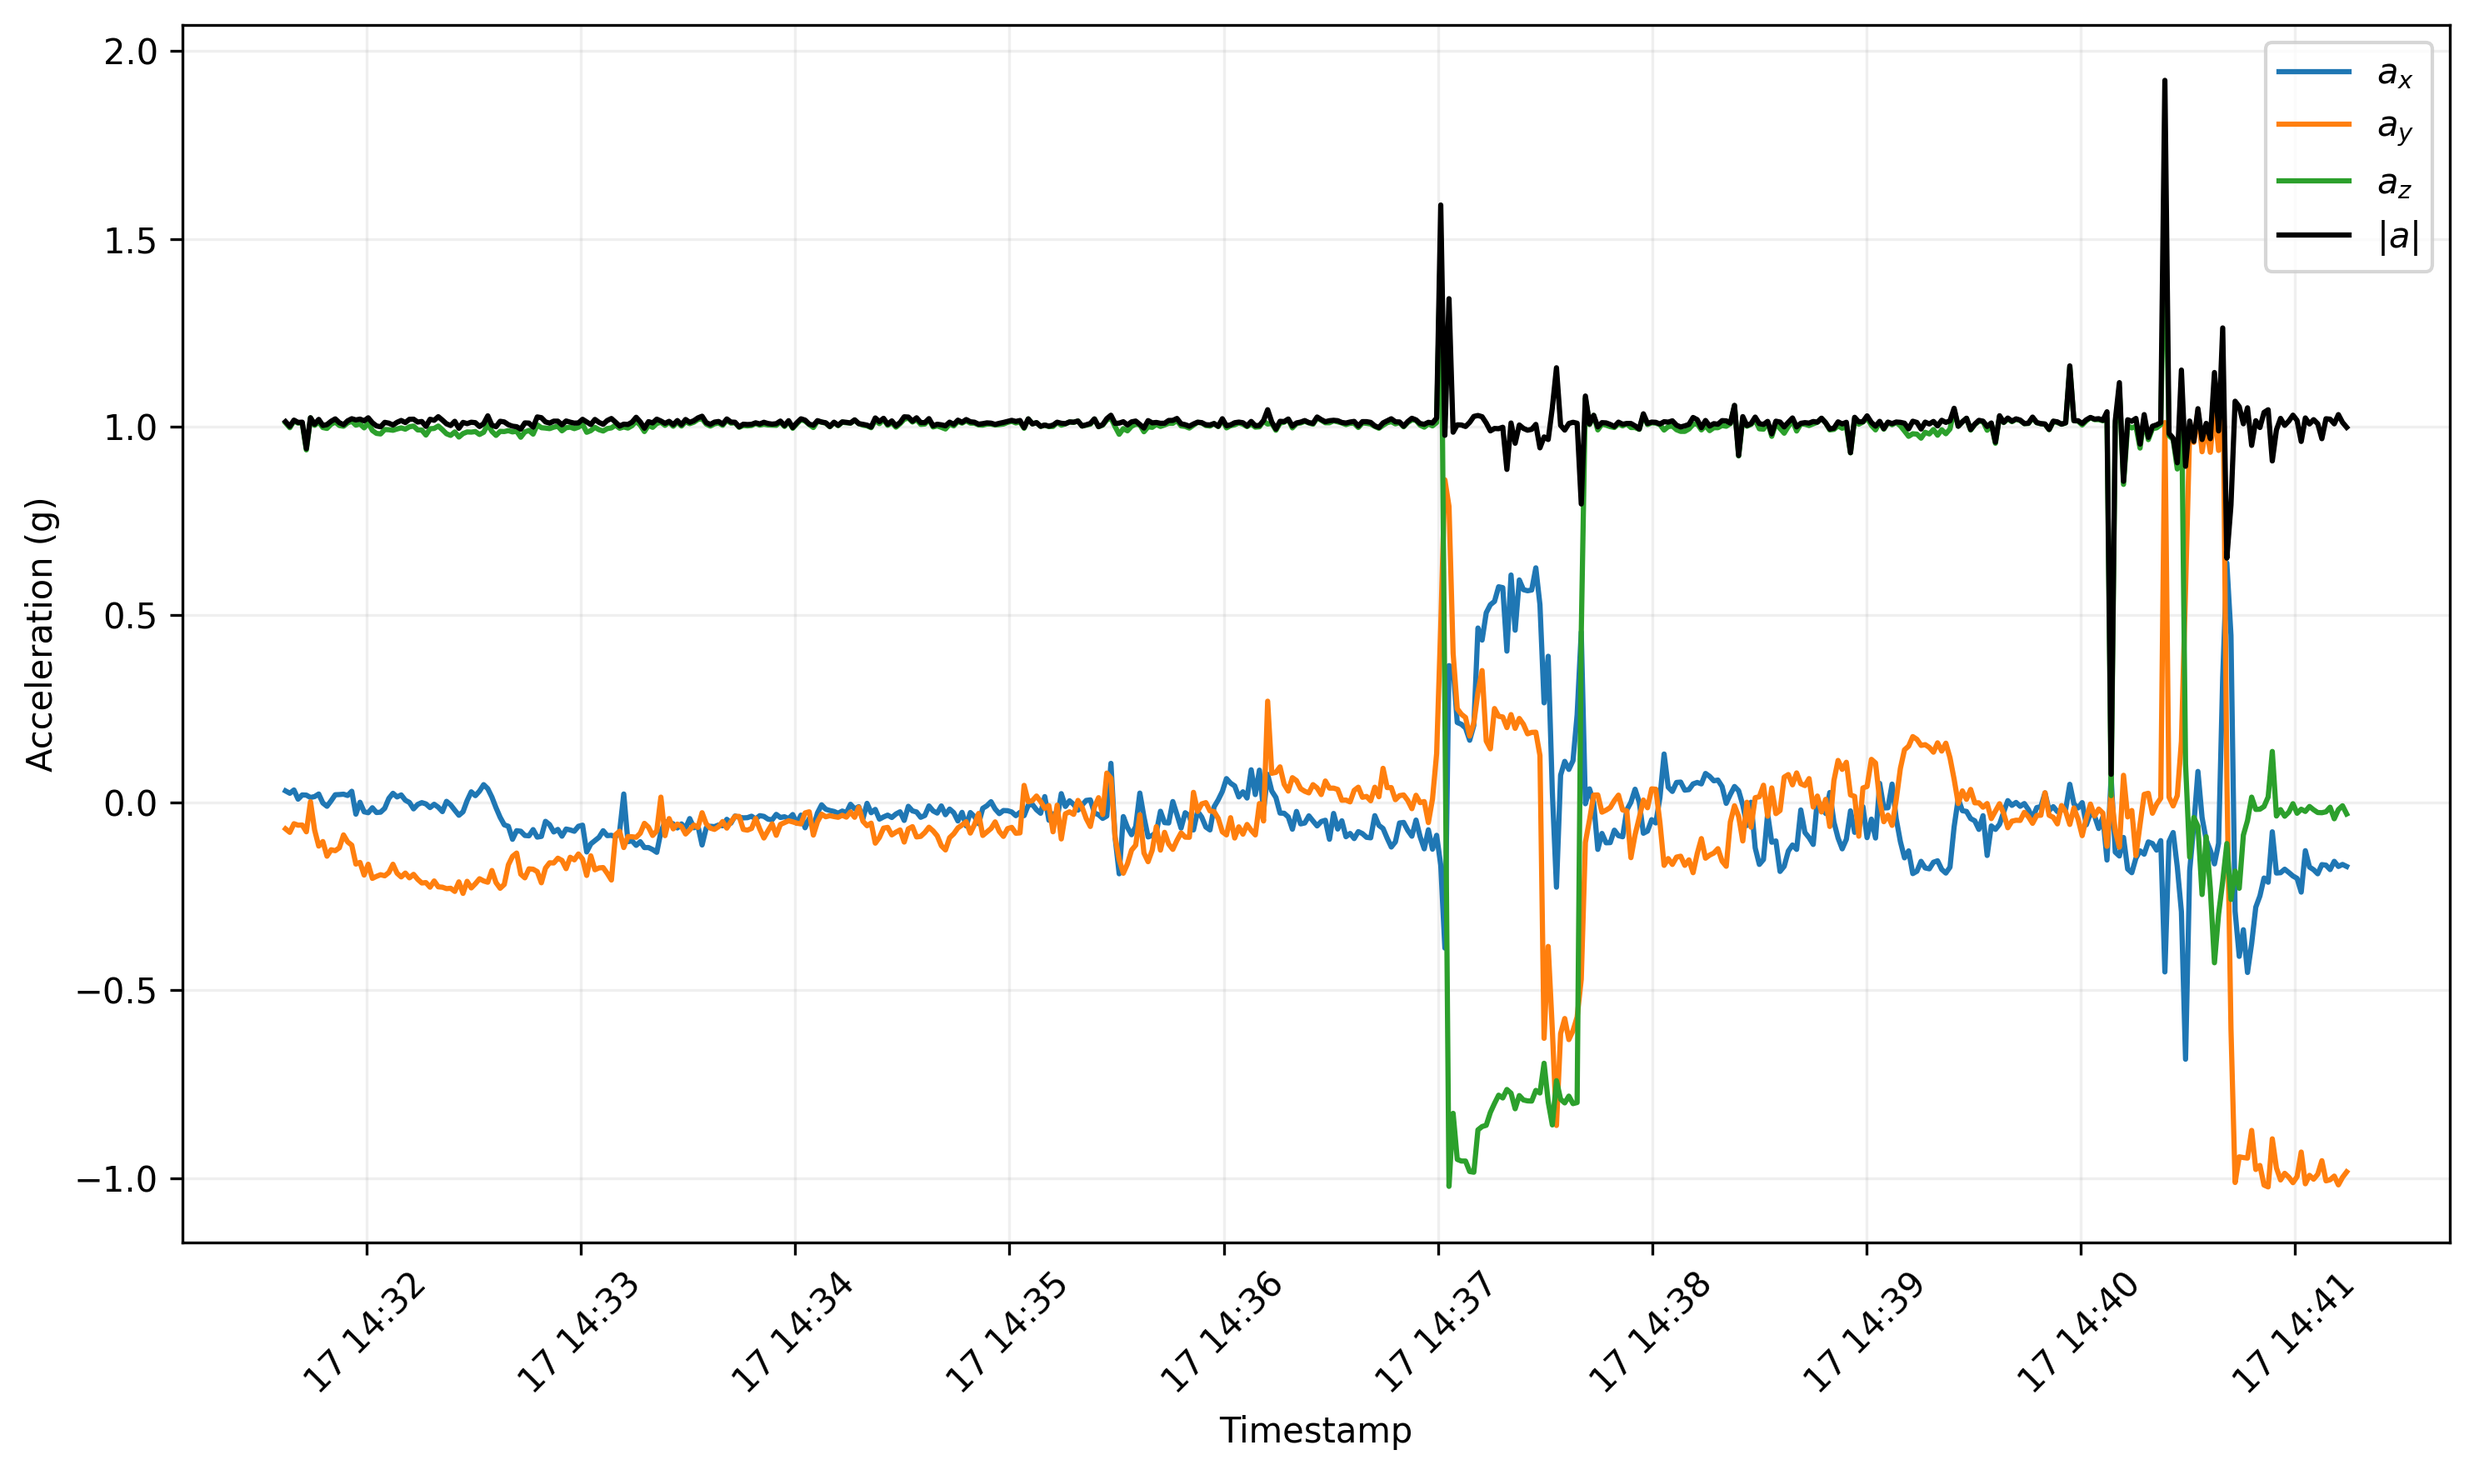
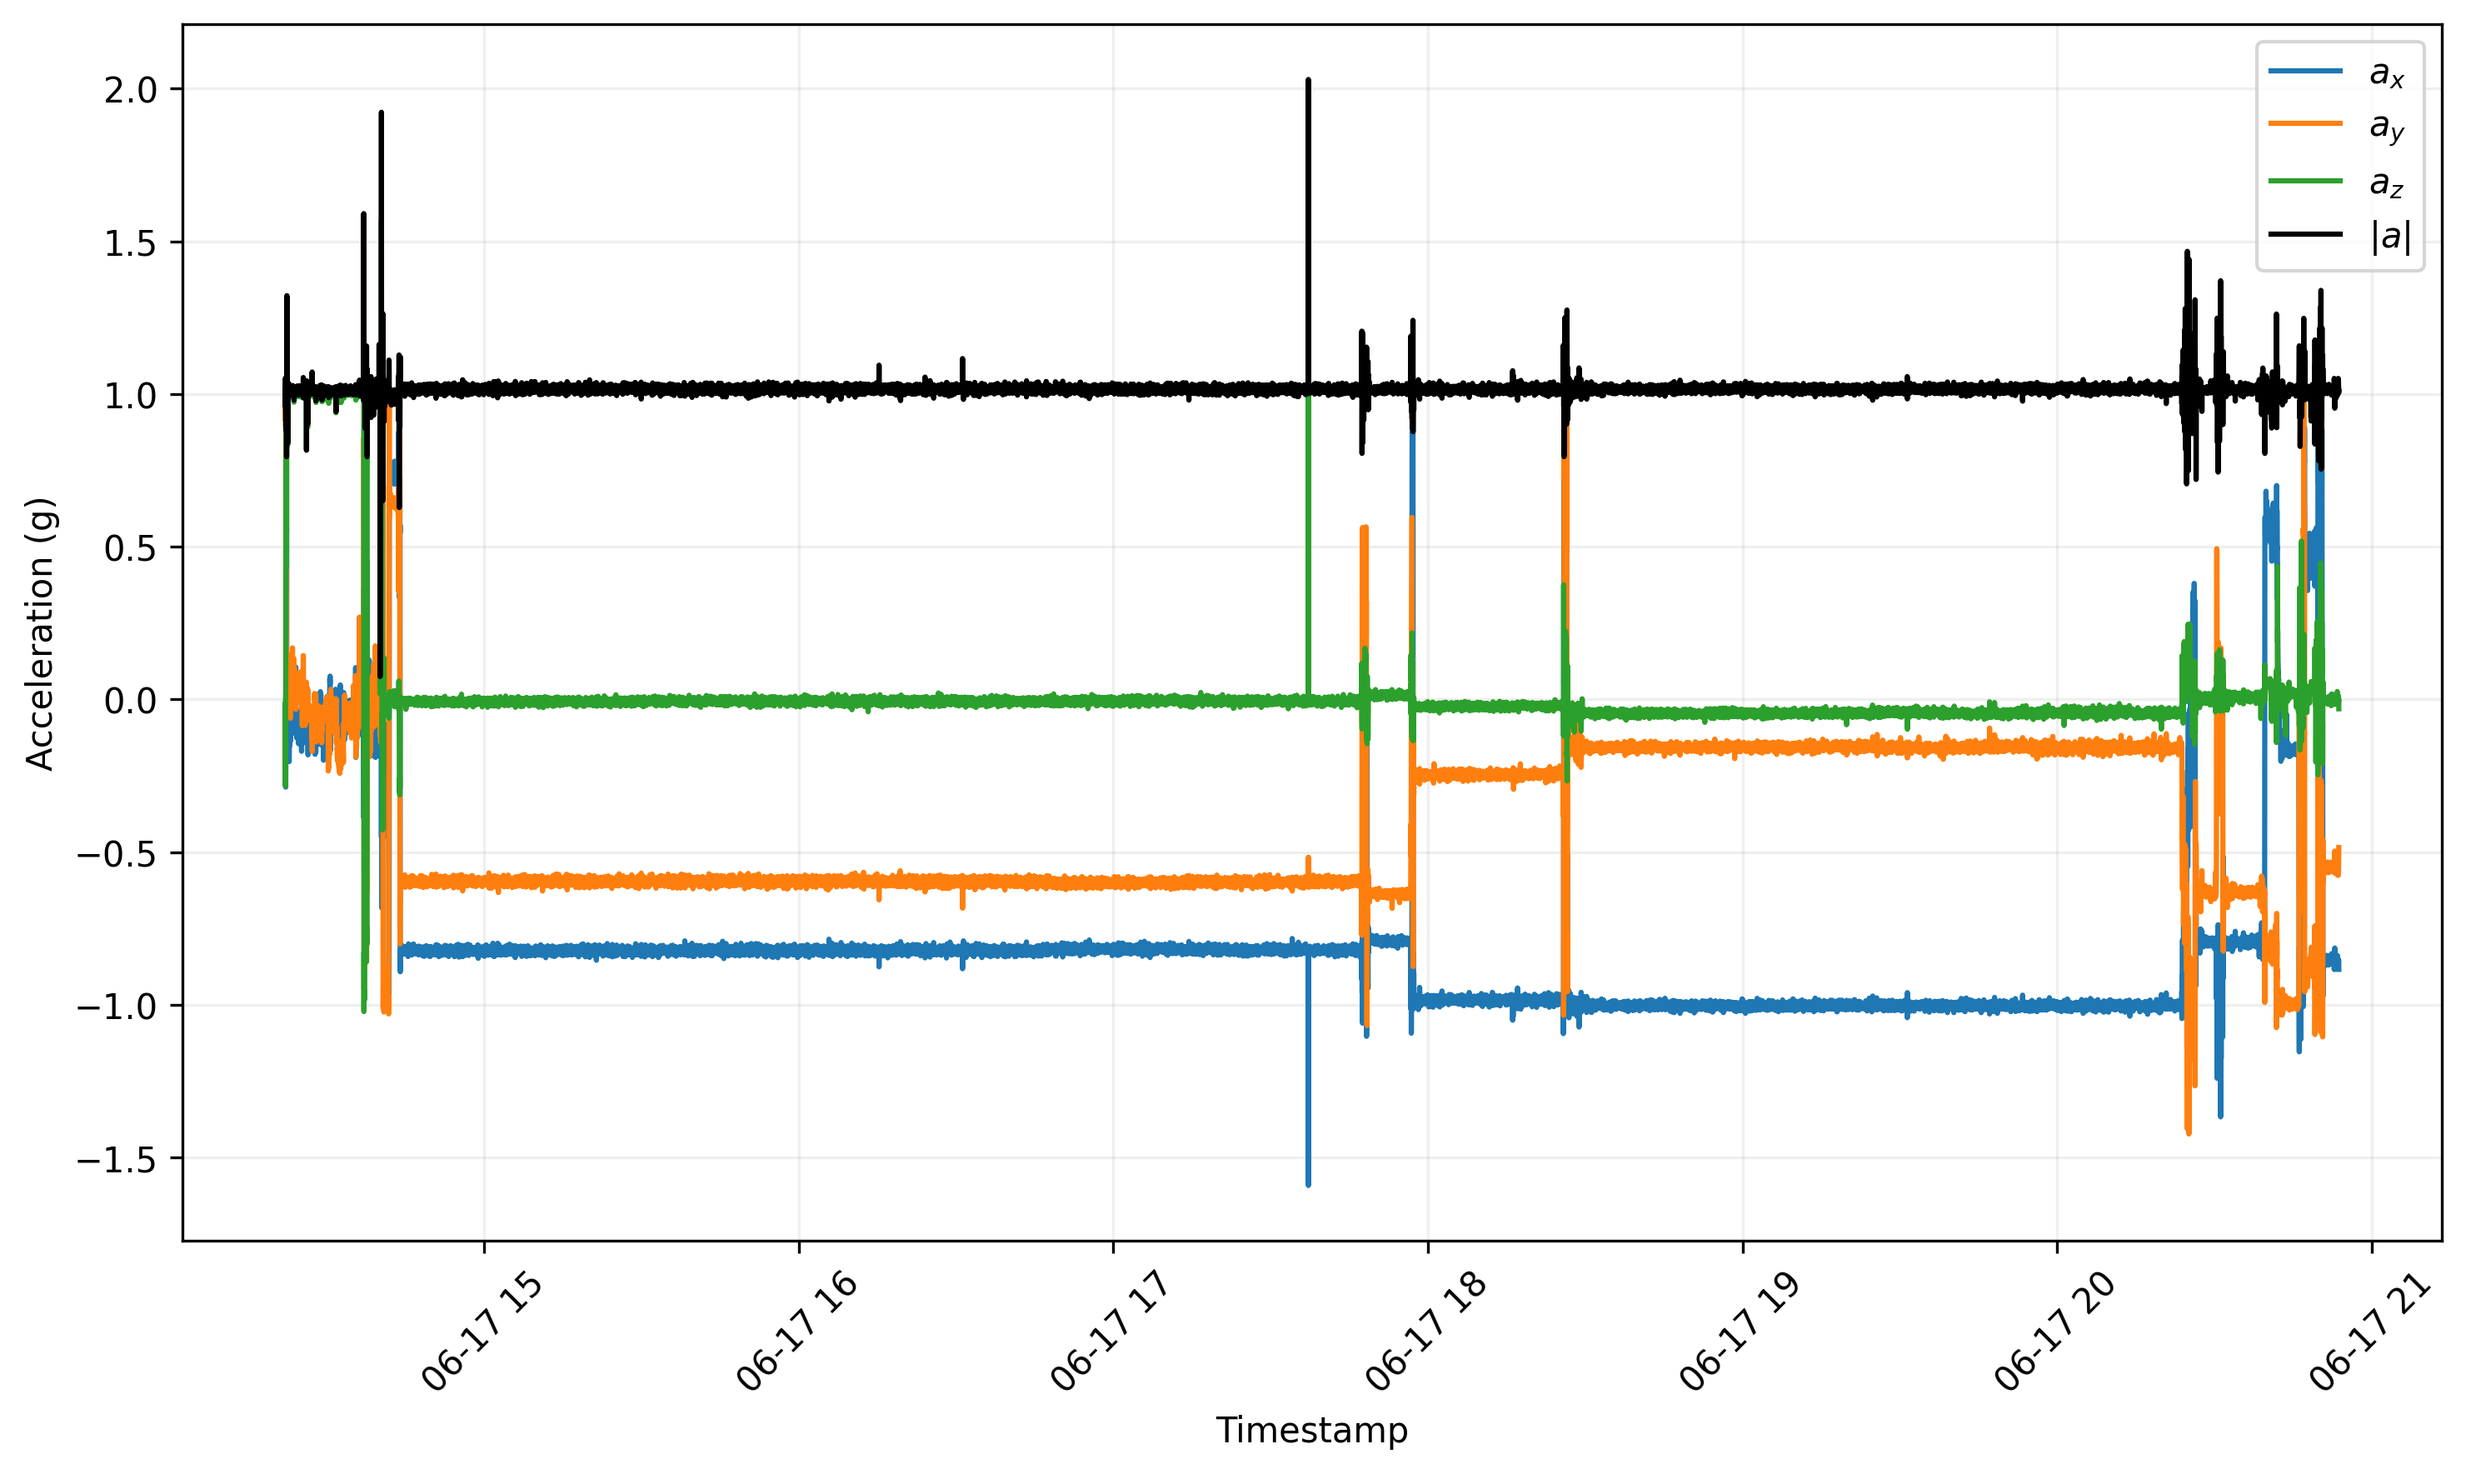
Draw graph for magnetic field

diff --git a/data/data_plot.py b/data/data_plot.py
@@ -44,6 +44,36 @@ def draw_acceleration(data, start=None, end=None, interval=None, output_file=Non
         plt.savefig(output_file, dpi=300, transparent=False, bbox_inches='tight')
     plt.show()
 
+def draw_magnetic(data, start=None, end=None, interval=None, output_file=None):
+
+    trim_range = slice(start, end)
+
+    X = data["Magnetometer X (uT)"][trim_range]
+    Y = data["Magnetometer Y (uT)"][trim_range]
+    Z = data["Magnetometer Z (uT)"][trim_range]
+    magnitude = np.linalg.norm([X, Y, Z], axis=0)
+    data_time = data["datetime"][trim_range]
+
+    plt.figure(figsize=figure_size)
+
+    plt.plot(data_time, X, label="$B_x$")
+    plt.plot(data_time, Y, label="$B_y$")
+    plt.plot(data_time, Z, label="$B_z$")
+    plt.plot(data_time, magnitude, label="$|B|$", color="black")
+
+    if interval:
+        plt.gca().xaxis.set_major_locator(mdates.SecondLocator(interval=interval))
+
+    plt.xticks(rotation=45)     # Rotate labels for better readability
+    plt.xlabel("Timestamp")
+    plt.ylabel("Magnetic Flux Density (μT)")
+    plt.tight_layout()
+    plt.legend()
+    plt.grid(alpha=0.2)
+    if output_file:
+        plt.savefig(output_file, dpi=300, transparent=False, bbox_inches='tight')
+    plt.show()
+
 def draw_pressure(data, start=None, end=None, interval=None, output_file=None):
 
     trim_range = slice(start, end)
@@ -194,7 +224,8 @@ if __name__ == "__main__":
     payload_data.data[air_density] = calculate_density(payload_data.data, speed_of_sound_key=speed_of_sound)
 
     # Draw graphs
-    draw_acceleration(payload_data.data, 500, 1000, output_file=(payload_data.data_dir / "graph_acceleration.png"))
+    draw_acceleration(payload_data.data, output_file=(payload_data.data_dir / "graph_acceleration.png"))
+    draw_magnetic(payload_data.data, output_file=(payload_data.data_dir / "graph_magnetic.png"))
     draw_pressure(payload_data.data, output_file=(payload_data.data_dir / "graph_pressure.png"))
     draw_temperature(payload_data.data, output_file=(payload_data.data_dir / "graph_temperature.png"))
     draw_pressure_temp(payload_data.data, output_file=(payload_data.data_dir / "graph_pressure_temp.png"))
